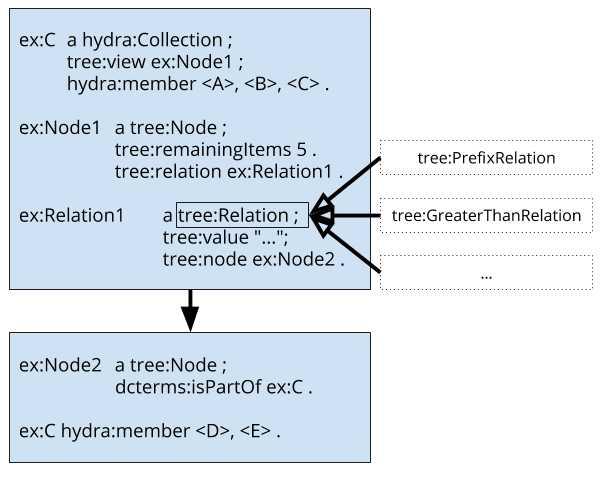
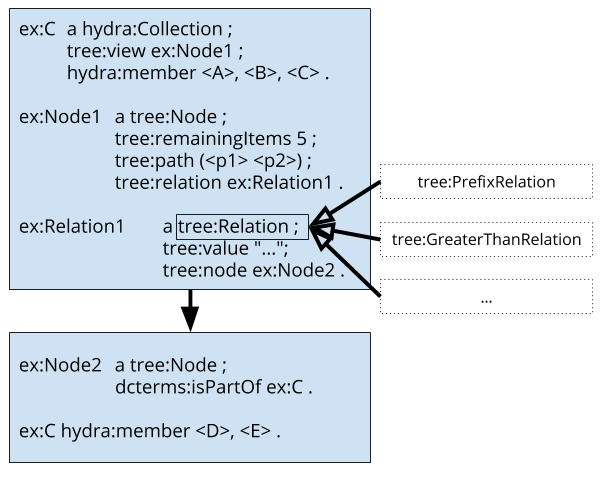
Fix #8

diff --git a/specs/2-traversing.md b/specs/2-traversing.md
@@ -4,23 +4,24 @@ A `tree:Node` element __may__ have one or more `tree:relation` properties. A rel
 
 The `tree:Relation`’s `tree:value` __must__ be set. The object of `tree:value` __should__ be accompanied by a data type when it is a literal value.
 
-Every `tree:Relation` __should__ have a `shacl:path`, indicating on what exact triple(s) the `tree:value` applies. For the different ways to express or handle a `shacl:path`, we refer to [2.3.1 in the shacl specification](https://www.w3.org/TR/shacl/#x2.3.1-shacl-property-paths). Mind that all possible combinations of e.g., `shacl:alternativePath` or `shacl:inversePath` may be used. When `sh:alternativePath` is used, the order in the list will define the importance of the order when evaluating the `tree:Relation`. If no `shacl:path` is provided in this document, the `tree:value` must be interpreted as filtering all objects that can be compared against the `tree:value`.
+Every `tree:Relation` __should__ have a `tree:path`, indicating on what exact triple(s) the `tree:value` applies. For the different ways to express or handle a `tree:path`, we refer to [2.3.1 in the shacl specification](https://www.w3.org/TR/shacl/#x2.3.1-shacl-property-paths). Mind that all possible combinations of e.g., `shacl:alternativePath` or `shacl:inversePath` may be used. When `shacl:alternativePath` is used, the order in the list will define the importance of the order when evaluating the `tree:Relation`. If no `tree:path` is provided in this document, the `tree:value` must be compared to all objects that _can be compared to_ the `tree:value` as defined by the type of the relation.
 
-If a `shacl:path` is defined, and
- 1. If no `hydra:member` relations are defined, the `shacl:path` needs to be evaluated on all triples in the page
- 2. If a `hydra:member` relationship is defined, the `shacl:path` should only start from the member URI
-<!-- MAYBE 3. For quad representations, you can find the triple on which the `shacl:path` should be evaluated by adding the graph name as an object of `tree:memberGraph` to the `hydra:Collection`. #PC: I’m unsure why to add this. I think it only adds complexity without adding real benefits to the data model, serialization, bandwidth, query performance, etc.-->
+If a `tree:path` is defined, and
+ 1. If no `hydra:member` relations are defined, the `tree:path` needs to be evaluated on all triples in the page
+ 2. If a `hydra:member` relationship is defined, the `tree:path` starts from the member URI. The target object __should__ be materialized in the current Node document, but when it is not, the object __may__ be considered implicit.
+<!-- MAYBE 3. For quad representations, you can find the triple on which the `tree:path` should be evaluated by adding the graph name as an object of `tree:memberGraph` to the `hydra:Collection`. #PC: I’m unsure why to add this. I think it only adds complexity without adding real benefits to the data model, serialization, bandwidth, query performance, etc.-->
 
-The result of the evaluation of the `shacl:path`, is the value on which the `tree:value` is based.
+The result of the evaluation of the `tree:path`, is the value on which the `tree:value` is based.
 
-When no `shacl:path` is defined, the `tree:value` applies to the `hydra:member` elements, or all of the triples their objects given in the page when no `hydra:member` is available. If due to `rdfs:range` incompatibility, the object cannot be compared, the triple automatically becomes not part of the comparison.
+When no `tree:path` is defined, the `tree:value` applies to the `hydra:member` elements, or all of the triples their objects given in the page when no `hydra:member` is available. If due to `rdfs:range` incompatibility, the object cannot be compared, the triple automatically becomes not part of the comparison.
 
 Every node __may__ provide a `tree:remainingItems`. A client __may__ use `tree:remainingItems` to estimate the completeness of the downloaded elements to the end-user.
 
-
-__Informative note 1__: Not having a `hydra:member` or `shacl:path` may be useful for triple-based indexes such as [Triple Pattern Fragments](https://www.hydra-cg.com/spec/latest/triple-pattern-fragments/). In order to support metadata about the triples itself, something like [RDF*](http://blog.liu.se/olafhartig/tag/rdf-star/) would be needed.
+__Informative note 1__: Not having a `hydra:member` or `tree:path` may be useful for triple-based indexes such as [Triple Pattern Fragments](https://www.hydra-cg.com/spec/latest/triple-pattern-fragments/). In order to support metadata about the triples itself, something like [RDF*](http://blog.liu.se/olafhartig/tag/rdf-star/) would be needed.
 
 __Informative note 2__: A client needs to keep a list of already visited pages, as despite this being the Tree Ontology, circular references and back-links are allowed.
+
+__Informative note 3__: In contrast to `shacl:path`, a `tree:path` __may__ refer to an implicit property and may not materialized in the current response. The property can be inferred, fetched through another `hydra:Collection`, or simply retrieved by URI dereferencing of the subject. The latter is only recommended for a low amount of resources.
 
 ## Relation
 
@@ -42,7 +43,7 @@ A comparison based on locale and other options can be done by using these predic
  6. `tree:stringComparisonNumeric`
  7. `tree:stringComparisonCaseFirst`
 
-When a `shacl:path` is defined, mind that you also may have to check the language of the element using the property `tree:stringComparisonLanguage`.
+When a `tree:path` is defined, mind that you also may have to check the language of the element using the property `tree:stringComparisonLanguage`.
 One or more languages __may__ be set.
 When no language is set, all strings are compared.
 When empty language strings only need to be compared, you have to explicitly set `tree:stringComparisonLanguage` as `""`.
@@ -55,7 +56,7 @@ __Informative note 2__: The settings used for autocompletion on the client may b
 
 The `tree:GeospatiallyContainsRelation` is the relation than can be used to express all further members will be contained within a geospatial region defined by the WKT String in the `tree:value`.
 
-The `shacl:path` __must__ refer to a literal containing a WKT string, such as `geosparql:asWKT`.
+The `tree:path` __must__ refer to a literal containing a WKT string, such as `geosparql:asWKT`.
 
 ## Comparing time literals
 

diff --git a/vocabulary.md b/vocabulary.md
@@ -22,17 +22,17 @@ An entity that describes a relation between two `tree:Nodes`.
 
 The `tree:Relation` has specific sub-classes that implement a more specific type between the values. These types are described in the ontology (all classes are `rdf:subClassOf` `tree:Relation`):
  - String, Date or Number comparison:
-   - tree:PrefixRelation - All elements in the related node have this prefix
-   - tree:SubstringRelation - All elements in the related node have this substring
-   - tree:GreaterThanRelation - the related Node’s members are greater than the value. For string comparison, this relation can refer to a comparison configuration
-   - tree:GreaterOrEqualThanRelation - similar to ↑
-   - tree:LesserThanRelation
-   - tree:LesserOrEqualThanRelation
-   - tree:EqualThanRelation
+   - `tree:PrefixRelation` - All elements in the related node have this prefix
+   - `tree:SubstringRelation` - All elements in the related node have this substring
+   - `tree:GreaterThanRelation` - the related Node’s members are greater than the value. For string comparison, this relation can refer to a comparison configuration
+   - `tree:GreaterOrEqualThanRelation` - similar to ↑
+   - `tree:LesserThanRelation`
+   - `tree:LesserOrEqualThanRelation`
+   - `tree:EqualThanRelation`
  - Geo-spatial comparison (requires the node values to be WKT-strings): 
-   - tree:GeospatiallyContainsRelation (for semantics, see [DE-9IM](https://en.wikipedia.org/wiki/DE-9IM))
+   - `tree:GeospatiallyContainsRelation` (for semantics, see [DE-9IM](https://en.wikipedia.org/wiki/DE-9IM))
  - Interval comparison
-   - tree:InBetweenRelation
+   - `tree:InBetweenRelation`
    
 _Let us know in an issue if you want another type to be added to this official list_
 
@@ -49,7 +49,7 @@ __Range__: tree:Relation
 Remaining number of items of this node plus its children.
 
 __Domain__: tree:Node
-__Range__: xsd:integerxs
+__Range__: xsd:integer
 
 #### tree:node
 
@@ -61,6 +61,14 @@ __Range__: tree:Node
 #### tree:value
 
 The contextual value of this node: may contain e.g., a WKT-string with the bound of a rectangle, may contain a string, an integer, or even link to another resource where clear comparison rules apply.
+
+__Domain__: tree:Relation
+
+#### tree:path
+
+A property path, as defined by shacl, that indicates what resource the `tree:value` affects.
+
+See https://github.com/pietercolpaert/TreeOntology/blob/master/specs/2-traversing.md
 
 __Domain__: tree:Relation
 
